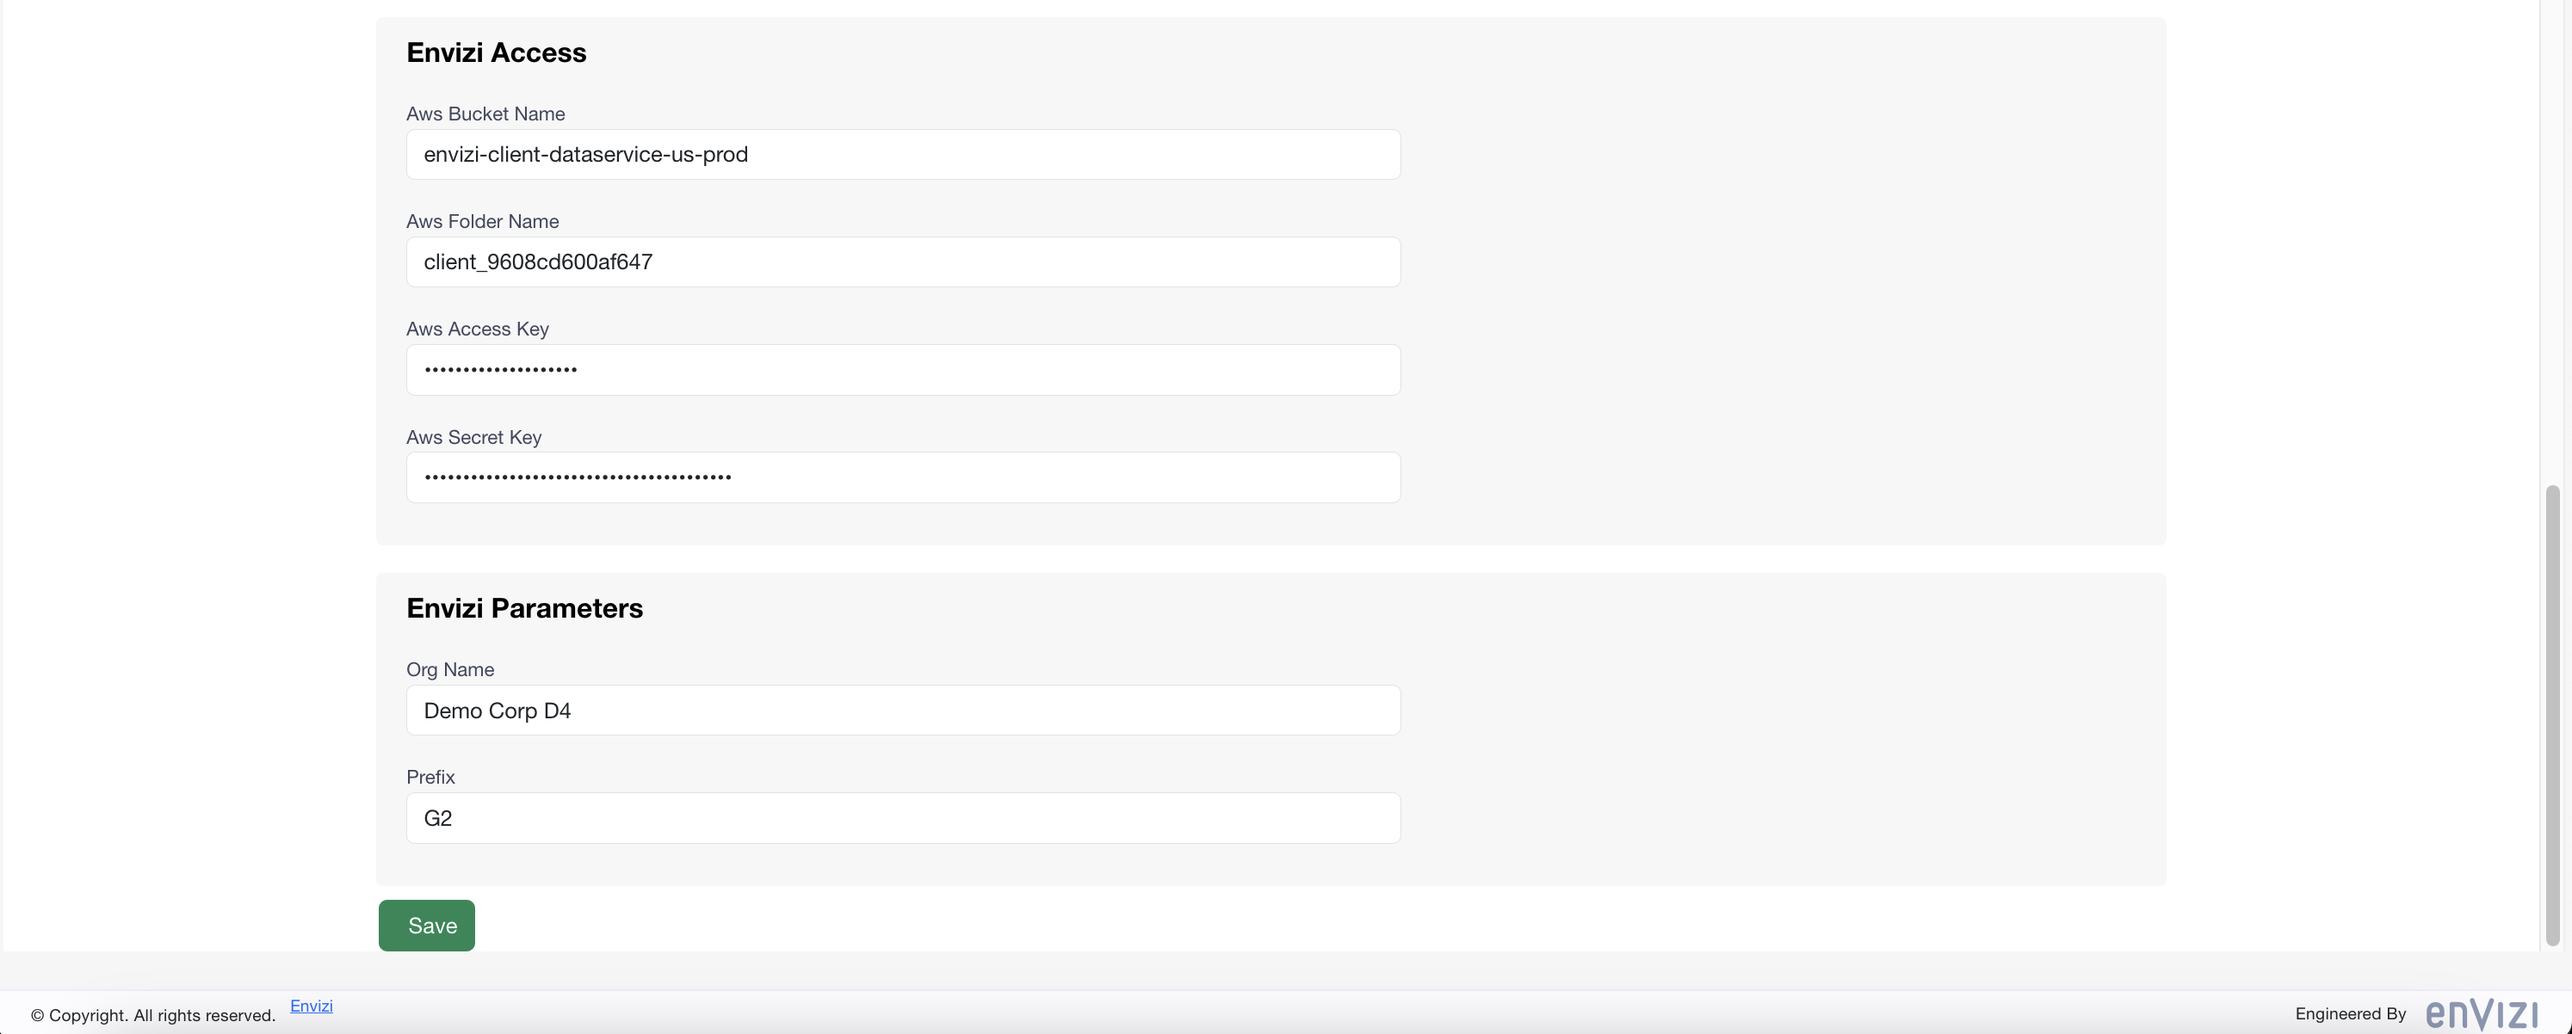
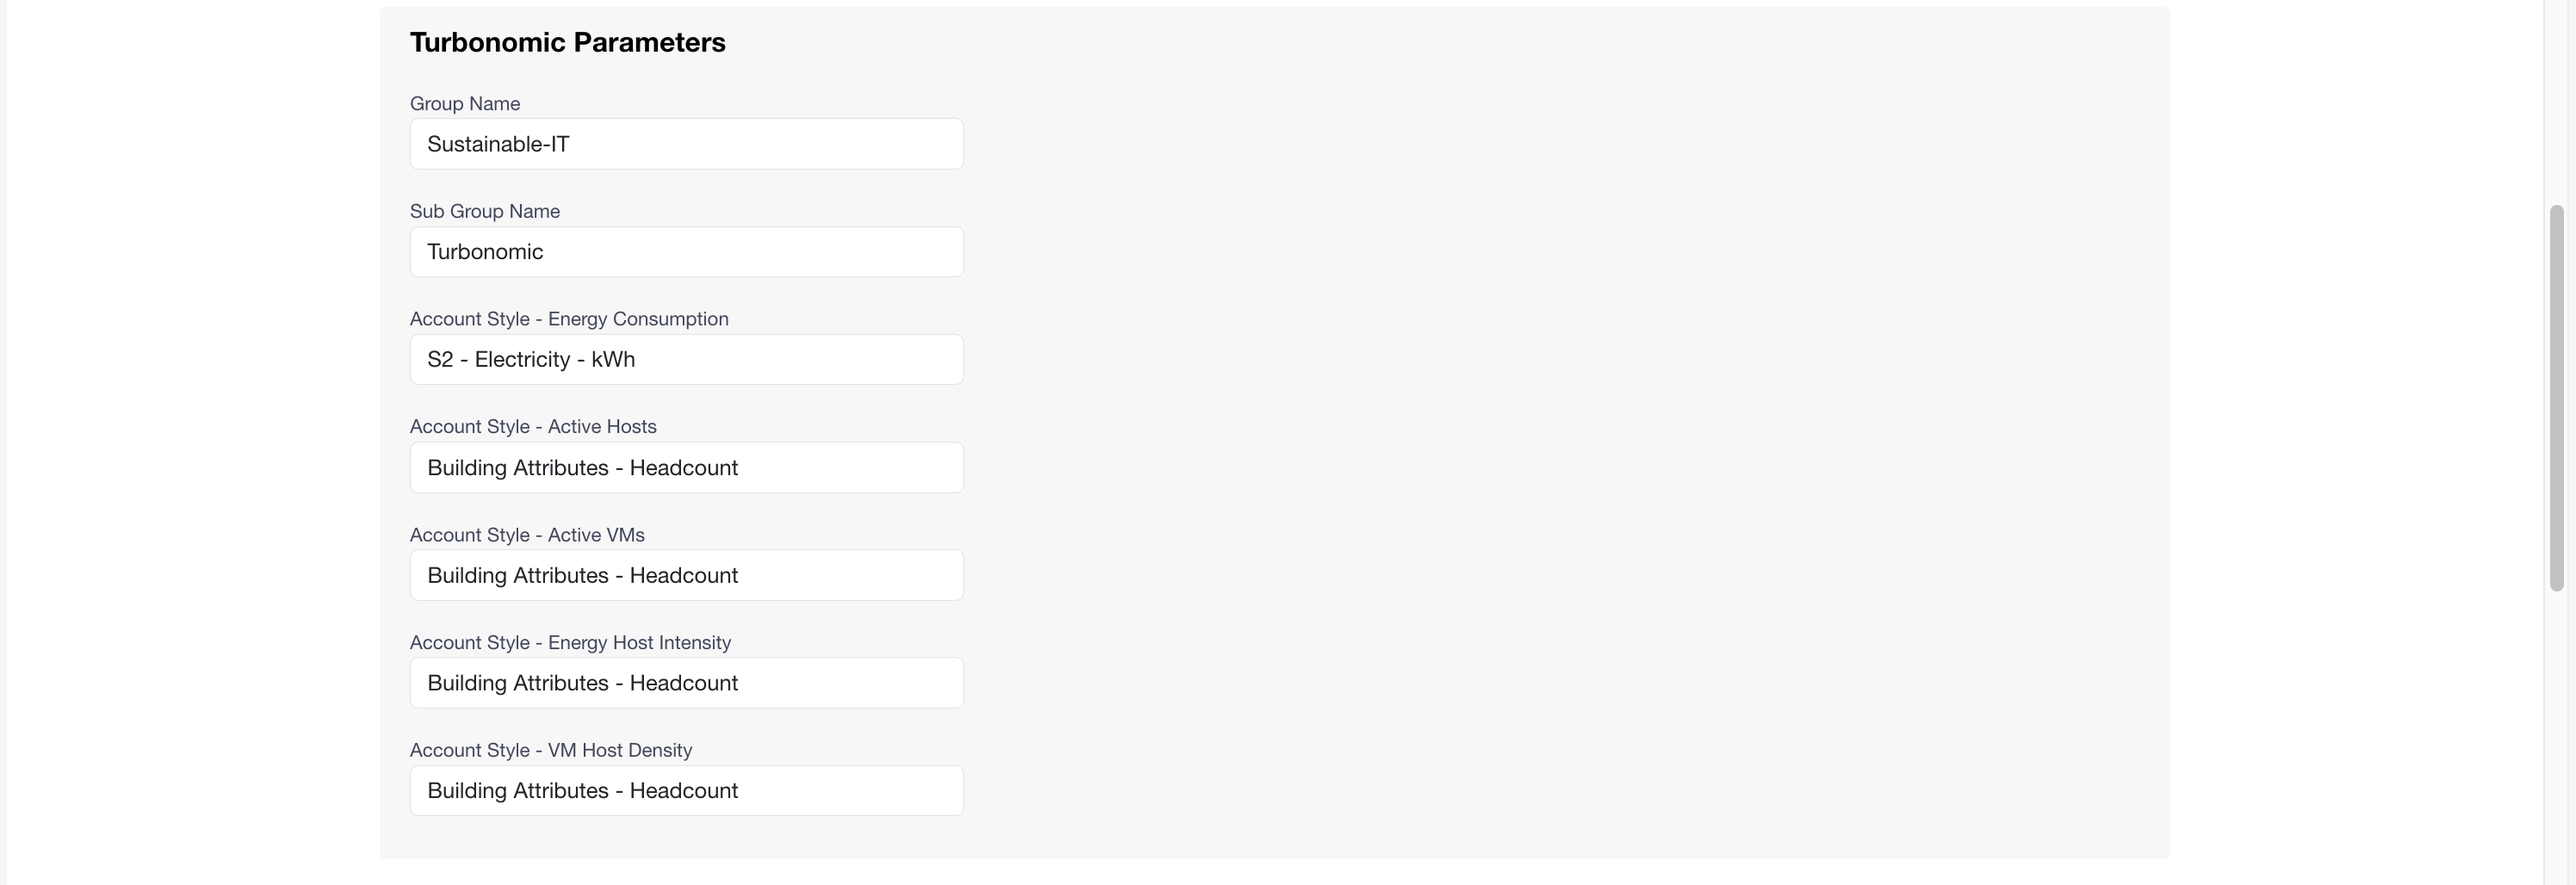
update

diff --git a/readme.md b/readme.md
@@ -12,7 +12,7 @@ Here is the summary of this tutorial
 
 1. Create Data Service and Data Pipeline in Envizi to create AWS S3 buckets.
 2. Prepare Configuration file with the S3 and Turbonomic access details.
-3. Start the Integration Hub App
+3. Start the Integration Hub App with the Configuration file
 4. Update the Configuration settings in the App if required
 5. Ingest Turbonomic Data into Envizi via the App
 6. View the Turbonomic Data in Envizi
@@ -30,7 +30,7 @@ Envizi Integration Hub leverages  Envizi Data Service and Envizi Data Pipeline t
 
 ### 1.1 Create Data Service
 
-You need to create Data Service in Envizi. You can refer the tutorial https://developer.ibm.com/tutorials/awb-sending-udc-excel-to-s3/ for the detailed steps.
+You need to create Data Service in Envizi. You can refer the tutorial https://developer.ibm.com/tutorials/awb-sending-udc-excel-to-s3/#step-1-create-a-data-service-for-aws-s3-bucket for the detailed steps.
 
 1. Create Data service in envizi. 
 <img src="images/img-12-dataservice.png">
@@ -44,7 +44,7 @@ Secret Access Key
 
 ### 1.2 Create Data Pipeline
 
-You need to create Data Pipeline in Envizi. You can refer the tutorial https://developer.ibm.com/tutorials/awb-sending-udc-excel-to-s3/ for the detailed steps.
+You need to create Data Pipeline in Envizi. You can refer the tutorial https://developer.ibm.com/tutorials/awb-sending-udc-excel-to-s3#step-2-create-a-data-pipeline for the detailed steps.
 
 1. Create Data Pipeline in envizi. 
 <img src="images/img-13-datapipeline.png">
@@ -122,21 +122,37 @@ The user should have `Observer` role.
 ```
 #### 6. Update Turbonomic parameters (Optional)
 
-Update the below parameters as per need. 
-
-Integration Hub pulls the Energy Consumption of each data center from Turbonomic and it is mapped to the below given `account_style` in Envizi. Each data center from Turbonomic is created as an account in Envizi under the given `sub_group` and `group`.
+Here are the Turbonomic parameters. You may need to modify `account_style_xxxxx` properties as per your environment. Otherwise no updates are required in the parameters. You can see the below explanations about the parameters.
 
 ```
   "turbo": {
     "parameters": {
       "group": "Sustainable-IT",
       "sub_group": "Turbonomic",
-      "account_style": "S2 - Electricity - kWh",
+      "account_style_energy_consumption": "S2 - Electricity - kWh",
+      "account_style_active_hosts": "Building Attributes - Headcount",
+      "account_style_active_vms": "Building Attributes - Headcount",
+      "account_style_energy_host_intensity": "Building Attributes - Headcount",
+      "account_style_vm_host_density": "Building Attributes - Headcount",
       "start_date": "2023-10-30",
       "end_date": "2023-11-04"
     }
   }
 ```
+
+1. The specified `group` and `sub_group` are created as `Groups` in Organization Hierarchy.
+2. Each data center from Turbonomic is created as an `Location` under the `sub_group`.
+3. The below  `Accounts` and `Account Styles` should be created for each Data center from Turbonomic.
+  ```
+  Energy Consumption      ---     Energy Consumption - kWh
+  Active Hosts            ---     Active Hosts [Number]     
+  Active VMs              ---     Active Virtual Machines [Number]
+  Energy Host Intensity   ---     Energy Host Intensity - kWh/host
+  VM Host Density         ---     Virtual Machine to Host Density - VM/Host
+  ```
+4. If you have these `Account Styles` in your environment you can update the `account_style_xxxxx` properties with the right values. Otherwise just leave it for default.
+
+
 ## 3. Start the Integration Hub App
 
 Need to start the Integration Hub App with the prepared configuration file.
@@ -188,7 +204,8 @@ The above prepared `envizi-config.json` config file content would be displayed h
 
 <img src="images/img-16-config1.png">
 <img src="images/img-16-config2.png">
-
+<img src="images/img-16-config3.png">
+<img src="images/img-16-config4.png">
 
 ## 5. Ingest Turbonomic Data into Envizi via the App
 
@@ -220,7 +237,13 @@ View the `file delivery status` to see the `locations` and `accounts` related fi
 
 View the `Org Hiearchy` to see the `groups`, `locations` and `accounts` are created in Envizi.
 
-<img src="images/img-20-orghierarchy.png">
+Here the `Energy Consumption` related account is available.
+
+<img src="images/img-20-orghierarchy1.png">
+
+Here the other accounts `Active Hosts`, `Active VMs` and etc are available.
+
+<img src="images/img-20-orghierarchy2.png">
 
 ### 6.3 View Summary page
 
